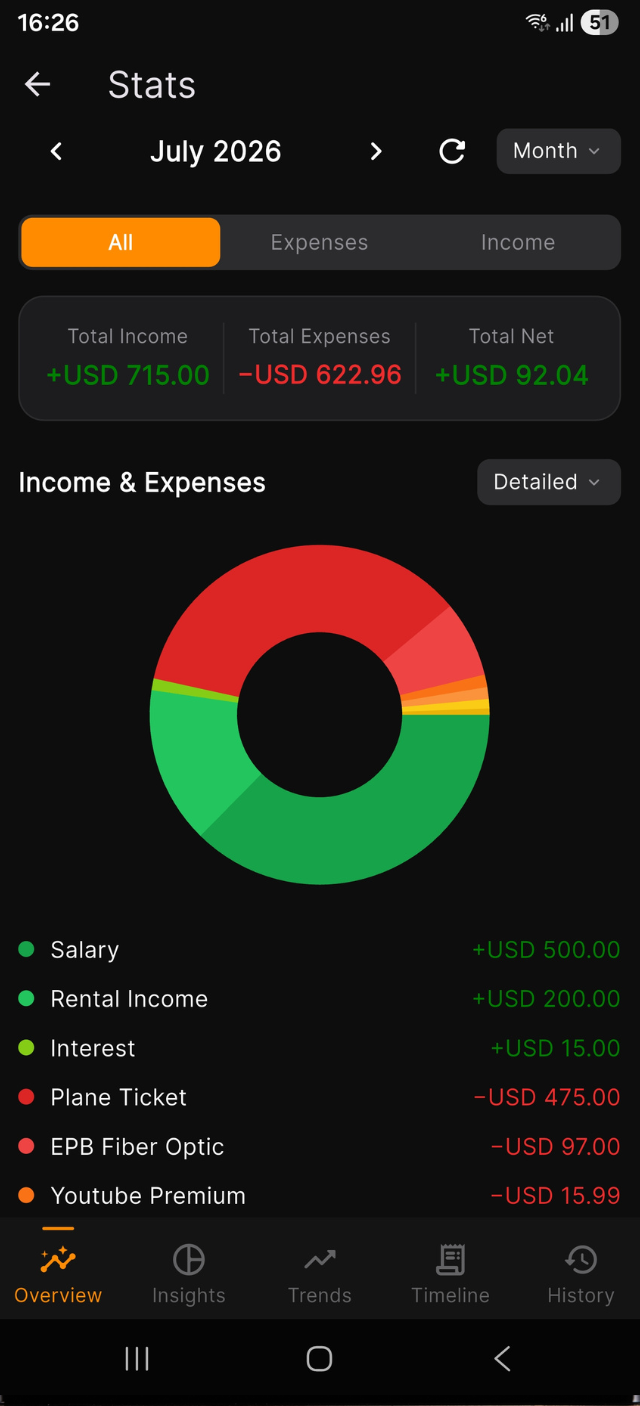
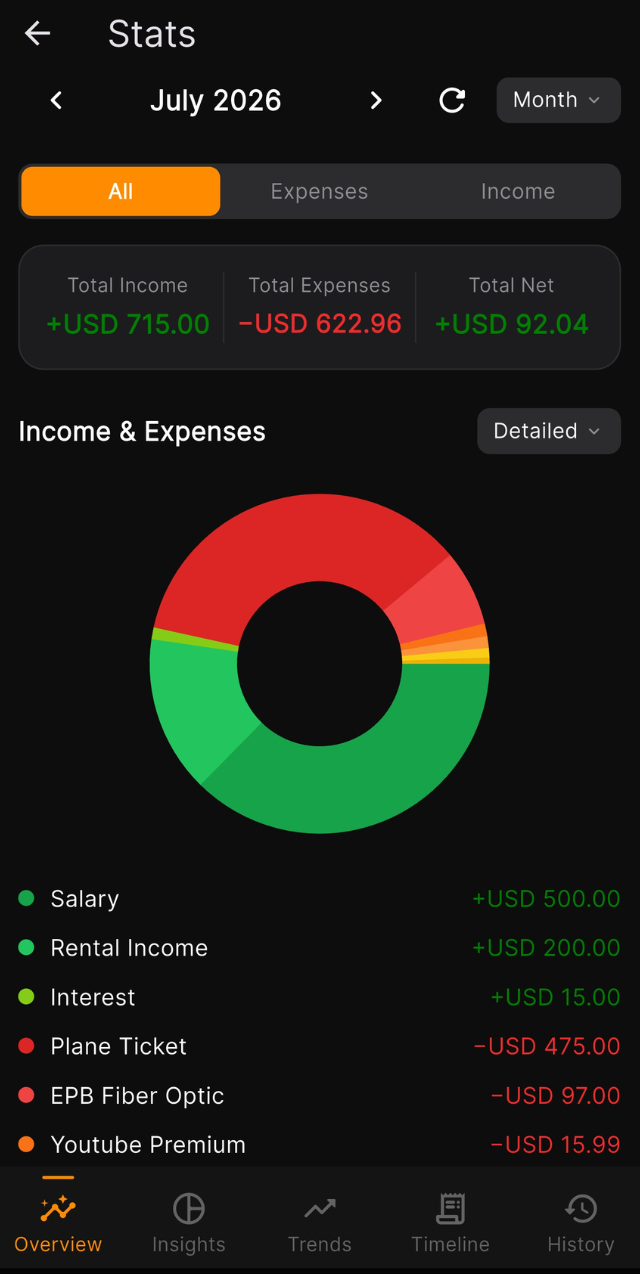
fix: consistent EXPN screenshots, all cropped from the Android set
Every phone frame now shows the same chrome: app UI only, no status
bar, no navigation buttons, no notch. Drop the island from the CSS
frame and size it to the crop. Merge the savings rate and cash flow
steps, since both live on the Trends screen.

diff --git a/expn/index.html b/expn/index.html
@@ -20,7 +20,7 @@
   <link rel="preconnect" href="https://fonts.googleapis.com">
   <link rel="preconnect" href="https://fonts.gstatic.com" crossorigin>
   <link rel="stylesheet" href="https://fonts.googleapis.com/css2?family=Inter:wght@400;500;600;700;800&display=swap">
-  <link rel="stylesheet" href="expn.css?v=3">
+  <link rel="stylesheet" href="expn.css?v=4">
 </head>
 <body>
 
@@ -95,52 +95,42 @@
           <div class="story-steps">
 
             <article class="feature-step" data-step="0" data-reveal>
-              <span class="pill">01 · Savings rate</span>
-              <h3>See what you keep, not just what you spend.</h3>
-              <p>Savings rate is the percentage of your income you keep after expenses. EXPN tracks it over time so one number tells you whether this month was better than the last.</p>
+              <span class="pill">01 · Savings rate and cash flow</span>
+              <h3>See what you keep, and where it is heading.</h3>
+              <p>Savings rate is the share of your income you keep after expenses, tracked over the year. Cash flow is your running total of income minus expenses. Two numbers, one screen, so you know if this month was better than the last.</p>
               <div class="phone phone-inline"><div class="phone-screen">
-                <div class="shot-placeholder"><img src="../assets/expn/wordmark.png" alt=""><span>Savings rate</span></div>
-                <img class="shot" src="../assets/expn/shot-2.png" alt="Savings rate trend in EXPN" onerror="this.remove()">
+                <div class="shot-placeholder"><img src="../assets/expn/wordmark.png" alt=""><span>Trends</span></div>
+                <img class="shot" src="../assets/expn/shot-2.png" alt="Savings rate and cash flow trends in EXPN" onerror="this.remove()">
               </div></div>
             </article>
 
             <article class="feature-step" data-step="1" data-reveal>
-              <span class="pill">02 · Cash flow</span>
-              <h3>Your running total, all year.</h3>
-              <p>The cash flow chart plots income minus expenses as it accumulates through the year. You see the direction you are moving in, not just a monthly snapshot.</p>
-              <div class="phone phone-inline"><div class="phone-screen">
-                <div class="shot-placeholder"><img src="../assets/expn/wordmark.png" alt=""><span>Cash flow</span></div>
-                <img class="shot" src="../assets/expn/shot-3.png" alt="Cash flow chart in EXPN" onerror="this.remove()">
-              </div></div>
-            </article>
-
-            <article class="feature-step" data-step="2" data-reveal>
-              <span class="pill">03 · Detailed stats</span>
+              <span class="pill">02 · Detailed stats</span>
               <h3>Stats that go five tabs deep.</h3>
               <p>Overview, Insights, Timeline, Trends and History. Break spending down by category, account or item. See every expense as a share of your income, by day, week, month or year.</p>
               <div class="phone phone-inline"><div class="phone-screen">
                 <div class="shot-placeholder"><img src="../assets/expn/wordmark.png" alt=""><span>Stats</span></div>
-                <img class="shot" src="../assets/expn/shot-4.png" alt="Stats overview in EXPN" onerror="this.remove()">
+                <img class="shot" src="../assets/expn/shot-3.png" alt="Stats overview in EXPN" onerror="this.remove()">
+              </div></div>
+            </article>
+
+            <article class="feature-step" data-step="2" data-reveal>
+              <span class="pill">03 · Reminders</span>
+              <h3>A reminder for every bill.</h3>
+              <p>Set a reminder on each expense: an hour, a day, three days or a week before it is due, with your own message. It lands on your lock screen, with no account and no push server involved. The calendar shows everything coming up.</p>
+              <div class="phone phone-inline"><div class="phone-screen">
+                <div class="shot-placeholder"><img src="../assets/expn/wordmark.png" alt=""><span>Calendar</span></div>
+                <img class="shot" src="../assets/expn/shot-4.png" alt="Financial calendar with due dates in EXPN" onerror="this.remove()">
               </div></div>
             </article>
 
             <article class="feature-step" data-step="3" data-reveal>
-              <span class="pill">04 · Reminders</span>
-              <h3>A reminder for every bill.</h3>
-              <p>Set a reminder on each expense: an hour, a day, three days or a week before it is due, with your own message. It lands on your lock screen, with no account and no push server involved.</p>
-              <div class="phone phone-inline"><div class="phone-screen">
-                <div class="shot-placeholder"><img src="../assets/expn/wordmark.png" alt=""><span>Reminders</span></div>
-                <img class="shot" src="../assets/expn/shot-5.png" alt="Expense reminder settings in EXPN" onerror="this.remove()">
-              </div></div>
-            </article>
-
-            <article class="feature-step" data-step="4" data-reveal>
-              <span class="pill">05 · Subscriptions and budgets</span>
+              <span class="pill">04 · Subscriptions and budgets</span>
               <h3>Recurring bills, under control.</h3>
               <p>Track subscriptions with their billing cycle, pause or archive them, and set budgets per category or account. EXPN shows spent, remaining and over budget at a glance.</p>
               <div class="phone phone-inline"><div class="phone-screen">
                 <div class="shot-placeholder"><img src="../assets/expn/wordmark.png" alt=""><span>Budgets</span></div>
-                <img class="shot" src="../assets/expn/shot-6.png" alt="Budgets in EXPN" onerror="this.remove()">
+                <img class="shot" src="../assets/expn/shot-5.png" alt="Budgets in EXPN" onerror="this.remove()">
               </div></div>
             </article>
 
@@ -149,12 +139,11 @@
           <div class="story-phone">
             <div class="phone phone-sticky">
               <div class="phone-screen">
-                <div class="shot-placeholder"><img src="../assets/expn/wordmark.png" alt=""><span class="story-label">Savings rate</span></div>
+                <div class="shot-placeholder"><img src="../assets/expn/wordmark.png" alt=""><span class="story-label">Trends</span></div>
                 <img class="shot story-shot" data-step="0" src="../assets/expn/shot-2.png" alt="" onerror="this.remove()">
                 <img class="shot story-shot" data-step="1" src="../assets/expn/shot-3.png" alt="" onerror="this.remove()">
                 <img class="shot story-shot" data-step="2" src="../assets/expn/shot-4.png" alt="" onerror="this.remove()">
                 <img class="shot story-shot" data-step="3" src="../assets/expn/shot-5.png" alt="" onerror="this.remove()">
-                <img class="shot story-shot" data-step="4" src="../assets/expn/shot-6.png" alt="" onerror="this.remove()">
               </div>
             </div>
           </div>

diff --git a/expn/expn.css b/expn/expn.css
@@ -123,21 +123,17 @@ h3 { font-size: clamp(1.15rem, 2vw, 1.5rem); letter-spacing: -0.02em; }
 /* Phone frame */
 .phone {
   position: relative;
-  width: 320px; aspect-ratio: 9 / 19.2;
+  width: 320px; aspect-ratio: 320 / 618;
   border-radius: 44px; padding: 10px;
   background: #1C1C1E;
   box-shadow: 0 0 0 1px rgba(255,255,255,0.1), 0 40px 90px rgba(0,0,0,0.6);
 }
-.phone::before {
-  content: ""; position: absolute; top: 20px; left: 50%; transform: translateX(-50%);
-  width: 86px; height: 24px; border-radius: 999px; background: #0D0D0D; z-index: 3;
-}
 .phone-screen {
   position: relative; width: 100%; height: 100%;
-  border-radius: 34px; overflow: hidden; background: #0D0D0D;
+  border-radius: 34px; overflow: hidden; background: #000;
 }
 .phone-screen .shot {
-  position: absolute; inset: 0; width: 100%; height: 100%; object-fit: cover;
+  position: absolute; inset: 0; width: 100%; height: 100%; object-fit: cover; object-position: center top;
 }
 .shot-placeholder {
   position: absolute; inset: 0; display: flex; flex-direction: column; align-items: center; justify-content: center; gap: 14px;

diff --git a/README.md b/README.md
@@ -16,15 +16,17 @@ on a `<span>` for a store that is not live yet.
 `/expn/` is a standalone landing page for EXPN with its own `expn/expn.css` and `expn/expn.js`
 (vanilla, no dependencies). It loads Inter from Google Fonts; that is the only external resource.
 
-Screenshots live in `assets/expn/` as `shot-1.png` to `shot-6.png`, cropped out of the store
-marketing art in `/mnt/user/projects/expn-screenshots/` (ios/ and android/) with Pillow run in Docker. Current mapping:
+Screenshots live in `assets/expn/` as `shot-1.png` to `shot-6.png`. They are all cropped from the
+Android store art in `/mnt/user/projects/expn-screenshots/android/` (inner screen x 243 to 883,
+1274px tall starting below the status bar, nav bar excluded) with Pillow in Docker, so every frame
+has identical chrome. Mapping:
 
-1. `shot-1` hero: Expenses tab (ios/2)
-2. `shot-2` Stats, Trends, Savings rate (android/6)
-3. `shot-3` Stats, month view with Total Net, used for the cash flow step (android/1)
-4. `shot-4` Stats, Overview (ios/1)
-5. `shot-5` Calendar, stands in for the reminders step until a reminder screenshot exists (ios/5)
-6. `shot-6` Budget tab (ios/4)
+1. `shot-1` hero: Expenses (android/2)
+2. `shot-2` Trends, savings rate and cash flow (android/6)
+3. `shot-3` Stats overview (android/1)
+4. `shot-4` Calendar, used for the reminders step (android/5, crop starts at y=518)
+5. `shot-5` Budgets (android/4)
+6. `shot-6` Income (android/3), currently unused
 
 Phone frames show a styled placeholder if a file is missing, so a removed shot never breaks the page.
 Images have no cache-bust query string, so when replacing a shot use a new filename (and update
